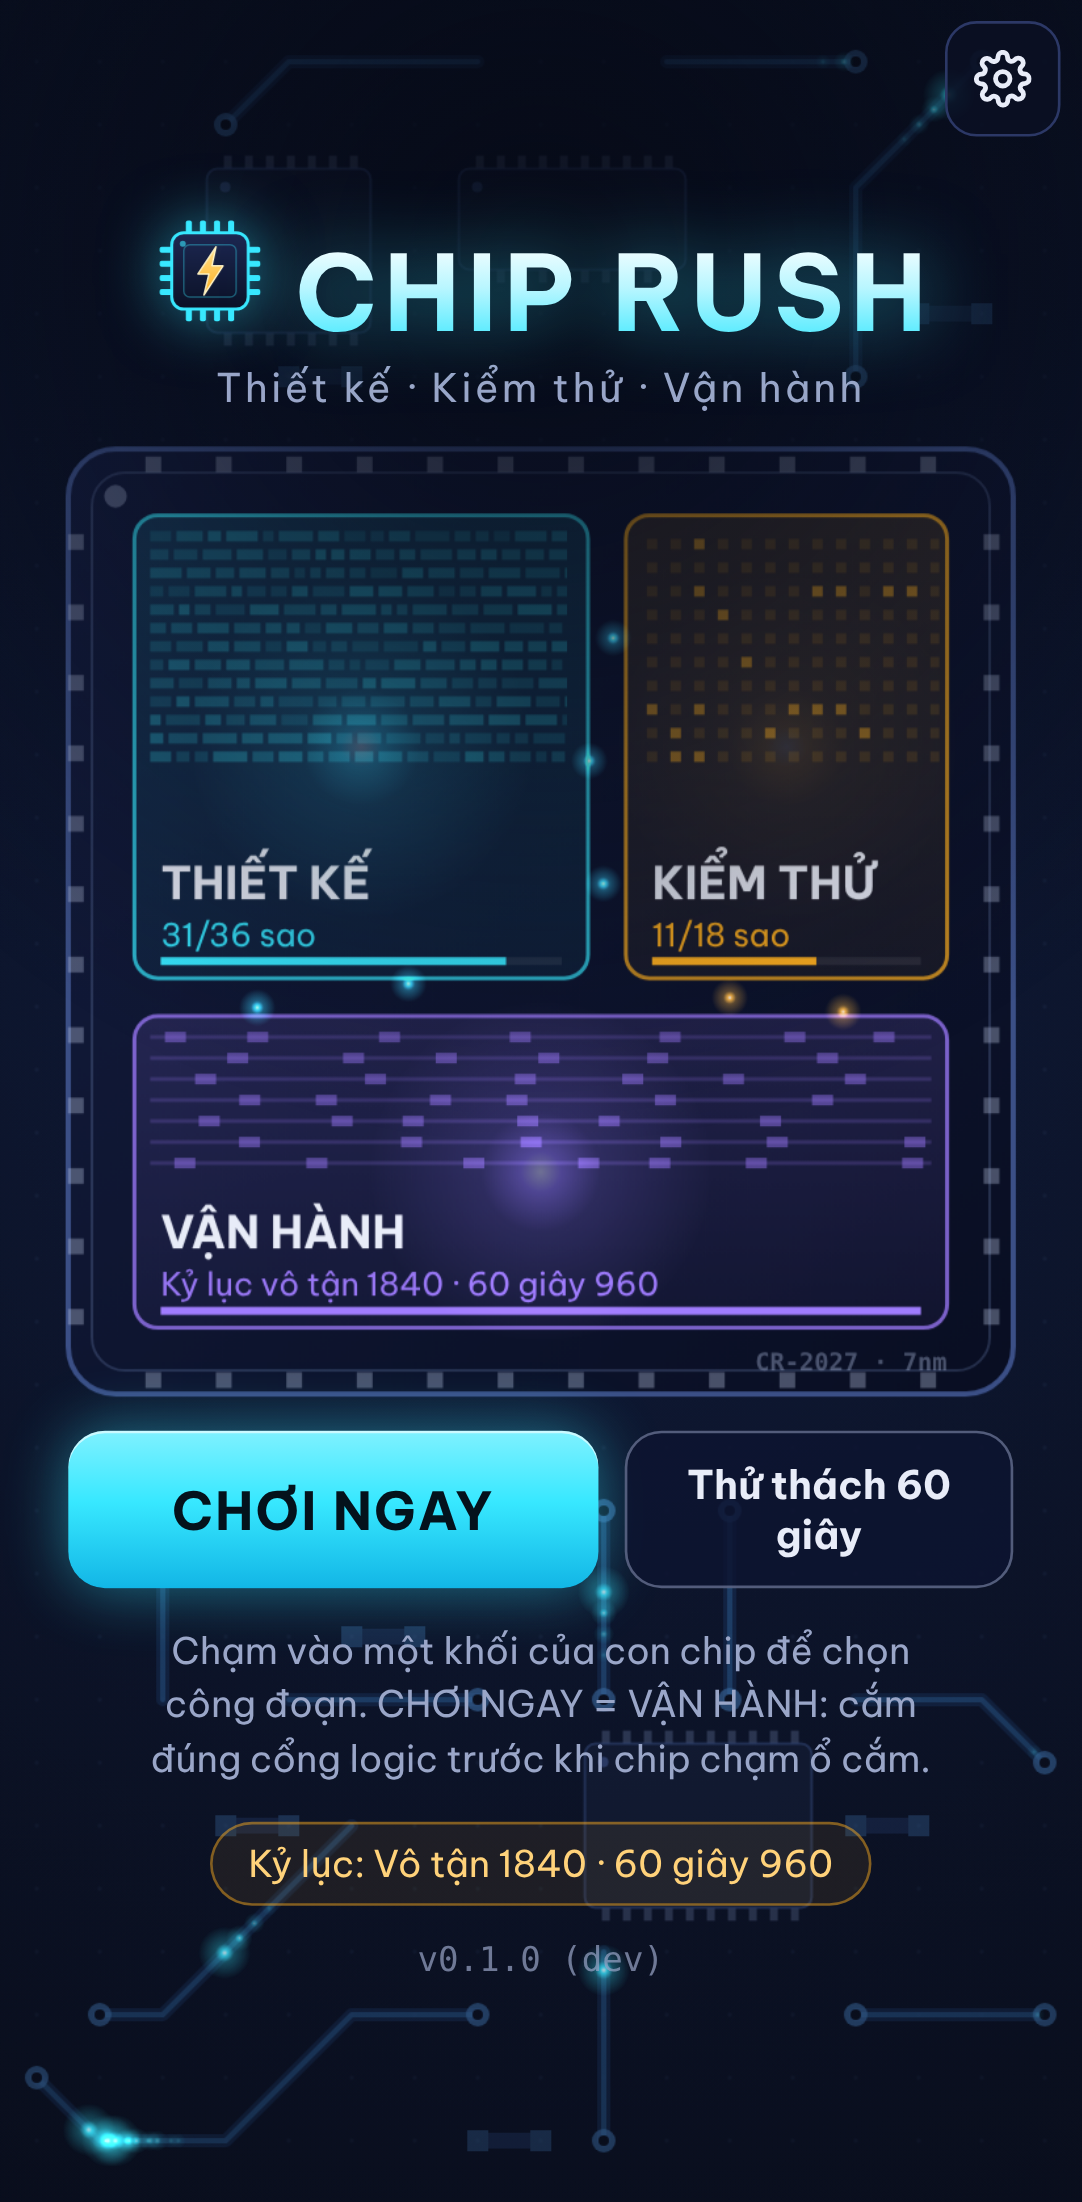
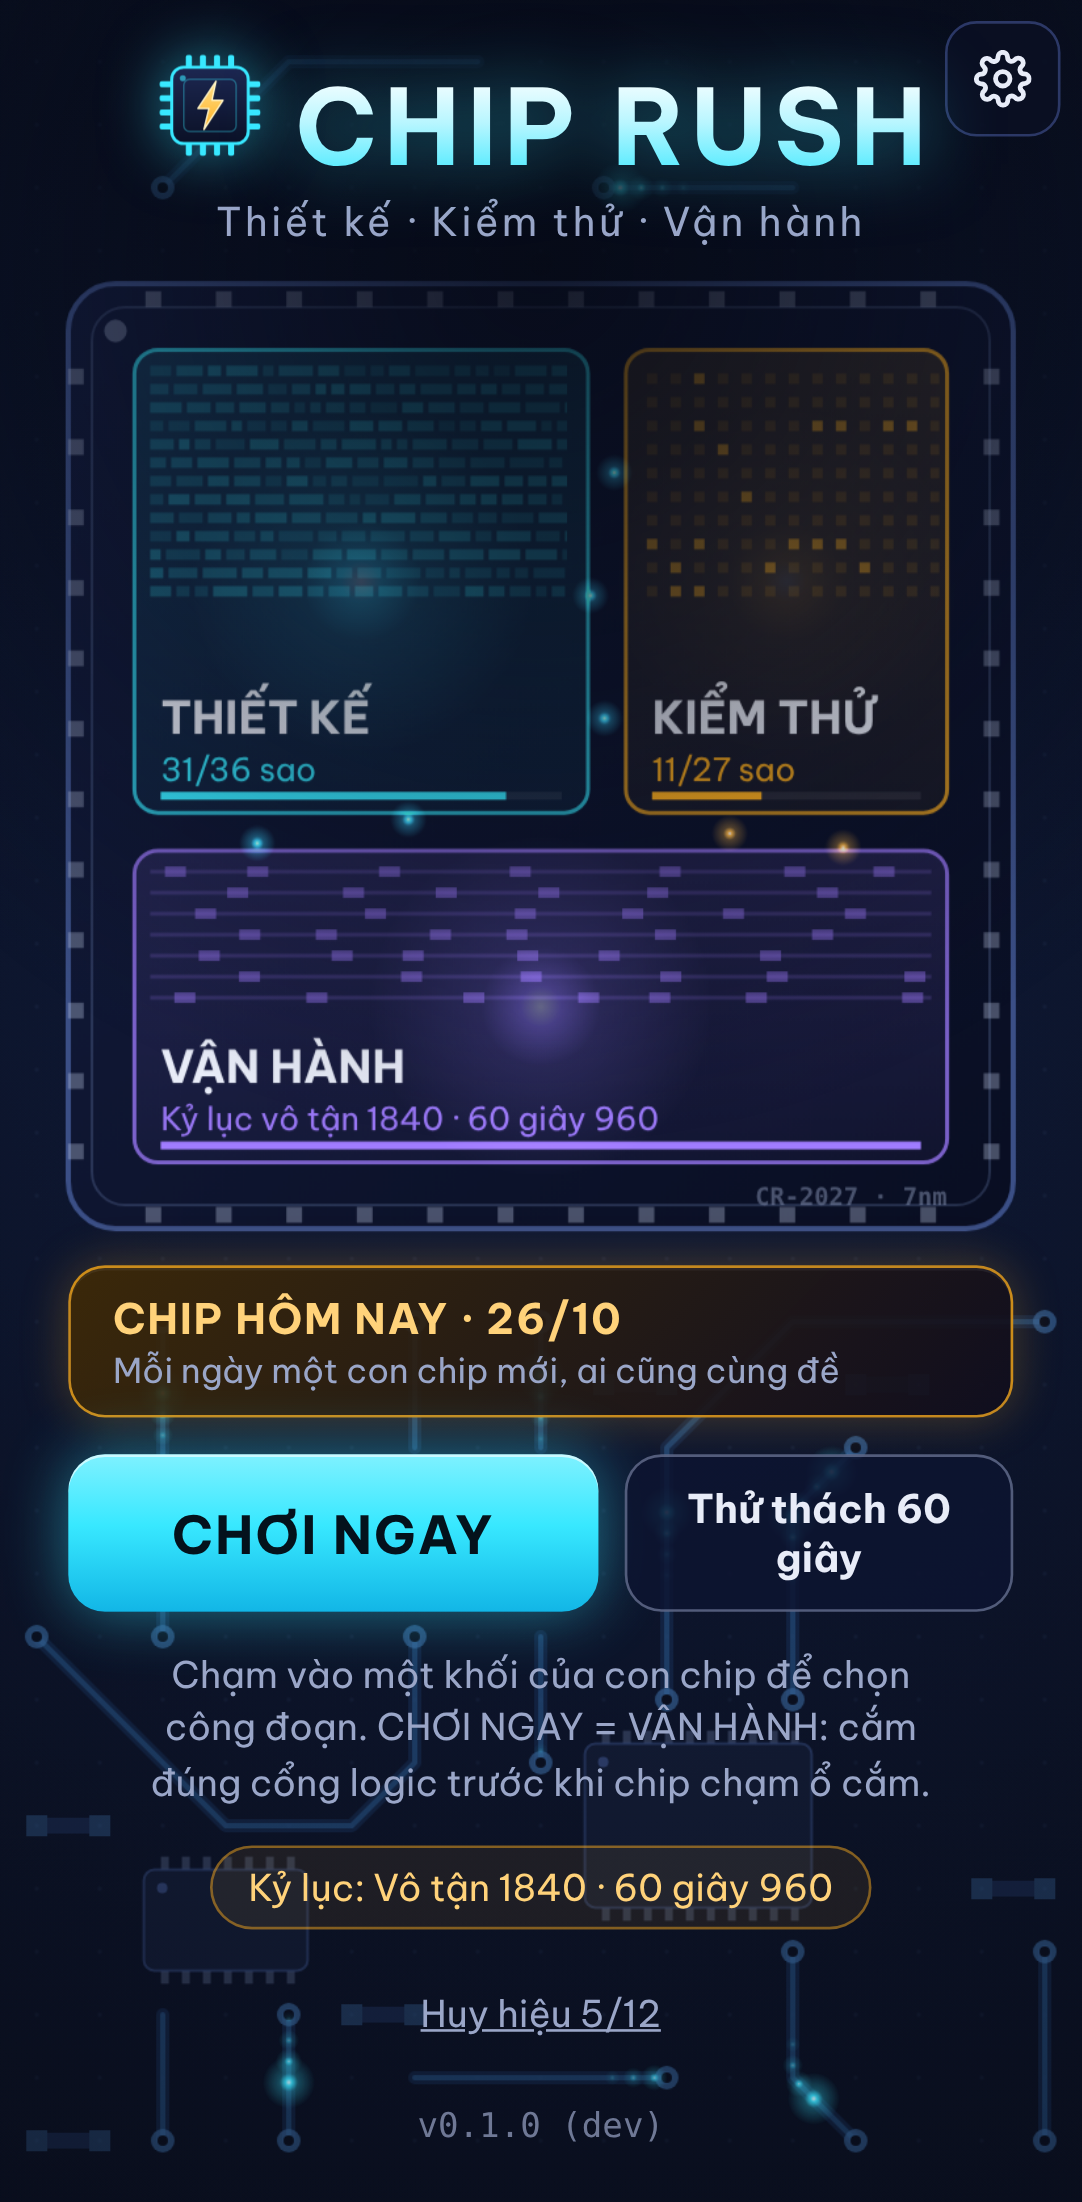
Ngày 18/10: đo hiệu năng máy ảo chậm, bậc đồ hoạ "min", làm mới ảnh nộp bài
- tools/perf-bench.mjs: Chromium + CPU chậm 1/4/6x qua DevTools Protocol, đo fps 4 màn
- Bậc chất lượng min: hạ DPR canvas xuống 1,25 khi đã tắt hiệu ứng mà vẫn giật
  (CPU chậm 4x: ~23 -> ~47 fps trên máy ảo); xét mỗi 30 frame, đo lại sau mỗi lần hạ
- Ảnh nộp bài chụp lại (Chip hôm nay 26/10, Huy hiệu, 9 màn KIỂM THỬ); ADR-0006, TESTING, COMPLIANCE
- 386 unit + 21 E2E xanh

Claude-Session: https://claude.ai/code/session_01SW3XEXh7B8UiDaXU6TGZZz

diff --git a/src/main.ts b/src/main.ts
@@ -2,7 +2,7 @@ import './ui/styles.css';
 import { versionLabel } from './config';
 import { createLoop } from './loop';
 import type { Scene } from './scene';
-import { createSurface } from './render/canvas';
+import { MIN_QUALITY_DPR, createSurface } from './render/canvas';
 import { createAudio } from './render/audio';
 import { attachPointer } from './input/pointer';
 import { createSafeStorage } from './platform/storage';
@@ -95,6 +95,7 @@ function boot(root: HTMLElement): void {
   let scene: Scene | null = null;
   let pendingInputTs = -1;
   let warmup = 0;
+  let qualityChangedAt = 0;
 
   const loop = createLoop({
     update: (dt) => scene?.update(dt),
@@ -109,12 +110,21 @@ function boot(root: HTMLElement): void {
         stats.addLatency(performance.now() - pendingInputTs);
         pendingInputTs = -1;
       }
-      // Tự tắt glow nếu máy không theo kịp (bỏ qua 2 giây đầu vì lúc tải hay giật).
-      if (++warmup > QUALITY_WINDOW && warmup % 60 === 0) {
-        surface.quality = decideQuality(surface.quality, stats.summary(QUALITY_WINDOW));
-        // Máy không theo kịp: ẩn luôn lớp nền bo mạch. Đo trên Chromium chạy đồ hoạ bằng CPU,
-        // ghép 2 lớp canvas toàn màn hình chiếm khoảng nửa thời gian mỗi frame (ADR-0006).
-        surface.backdrop.style.visibility = surface.quality === 'low' ? 'hidden' : '';
+      // Tự hạ đồ hoạ nếu máy không theo kịp. Bỏ qua lúc mới tải (hay giật), và sau mỗi lần hạ phải đo
+      // lại đủ QUALITY_WINDOW frame mới xét tiếp (số đo cũ là của mức chất lượng trước).
+      if (++warmup - qualityChangedAt > QUALITY_WINDOW && warmup % 30 === 0) {
+        const next = decideQuality(surface.quality, stats.summary(QUALITY_WINDOW));
+        if (next !== surface.quality) {
+          surface.quality = next;
+          qualityChangedAt = warmup;
+          // low: ẩn lớp nền bo mạch — trên máy vẽ bằng CPU, ghép 2 lớp toàn màn hình rất tốn (ADR-0006)
+          surface.backdrop.style.visibility = 'hidden';
+          // min: vẽ ở độ phân giải thấp hơn (số điểm ảnh giảm ~2,5 lần so với DPR 2)
+          if (next === 'min') {
+            surface.dprCap = MIN_QUALITY_DPR;
+            surface.resize();
+          }
+        }
       }
     },
   });
@@ -509,6 +519,8 @@ function boot(root: HTMLElement): void {
       },
       // vị trí 4 nút cổng (CSS px) để test bấm bằng chạm thật lên canvas
       buttons: () => layoutRuntime(surface.width, surface.height).buttons,
+      // đo hiệu năng tự động (tools/perf-bench.mjs): chất lượng đồ hoạ hiện tại + thống kê 120 frame gần nhất
+      perf: () => ({ quality: surface.quality, ...stats.summary(QUALITY_WINDOW) }),
       // màn THIẾT KẾ: id màn, toạ độ tâm ô, đầu vào hiện tại
       debug: () => {
         const ds = scene;
@@ -548,7 +560,7 @@ function boot(root: HTMLElement): void {
     createPerfOverlay(ui, stats, {
       version: versionLabel(),
       quality: () => surface.quality,
-      size: () => `${Math.round(surface.width)}×${Math.round(surface.height)} @${window.devicePixelRatio}x`,
+      size: () => `${Math.round(surface.width)}×${Math.round(surface.height)} @${Math.min(window.devicePixelRatio, surface.dprCap)}x`,
     });
   }
   if (import.meta.env.DEV && params.has('crash')) {

diff --git a/src/render/canvas.ts b/src/render/canvas.ts
@@ -17,7 +17,14 @@ export function computeCanvasSize(cssW: number, cssH: number, dpr: number, maxDp
   return { width: Math.max(1, Math.round(cssW * scale)), height: Math.max(1, Math.round(cssH * scale)), scale };
 }
 
-export type Quality = 'high' | 'low';
+/**
+ * 'high' = đủ hiệu ứng; 'low' = tắt glow/hạt + ẩn nền bo mạch; 'min' = như low + vẽ ở độ phân giải thấp hơn
+ * (đo 18/10: thời gian frame tỉ lệ gần thuận với số điểm ảnh khi máy vẽ bằng CPU).
+ */
+export type Quality = 'high' | 'low' | 'min';
+
+/** DPR tối đa khi chất lượng 'min'. */
+export const MIN_QUALITY_DPR = 1.25;
 
 export interface RenderSurface {
   readonly canvas: HTMLCanvasElement;
@@ -25,8 +32,10 @@ export interface RenderSurface {
   /** kích thước vùng vẽ theo CSS px */
   width: number;
   height: number;
-  /** 'low' = tắt glow/hạt để giữ khung hình trên máy yếu */
+  /** 'low'/'min' = tắt glow/hạt để giữ khung hình trên máy yếu (xem Quality) */
   quality: Quality;
+  /** DPR tối đa của canvas chính (hạ xuống khi quality = 'min'; đổi xong gọi resize()) */
+  dprCap: number;
   /** true khi người chơi bật giảm chuyển động */
   reducedMotion: boolean;
   /**
@@ -62,10 +71,11 @@ export function createSurface(host: HTMLElement): RenderSurface & { resize(): vo
     width: 0,
     height: 0,
     quality: 'high' as Quality,
+    dprCap: MAX_DPR,
     reducedMotion: window.matchMedia?.('(prefers-reduced-motion: reduce)').matches ?? false,
     resize() {
       const rect = canvas.getBoundingClientRect();
-      const s = computeCanvasSize(rect.width, rect.height, window.devicePixelRatio);
+      const s = computeCanvasSize(rect.width, rect.height, window.devicePixelRatio, surface.dprCap);
       if (canvas.width !== s.width || canvas.height !== s.height) {
         canvas.width = s.width;
         canvas.height = s.height;

diff --git a/src/debug/stats.ts b/src/debug/stats.ts
@@ -64,10 +64,10 @@ export const LOW_QUALITY_P95_MS = 33.4;
 export const QUALITY_WINDOW = 120;
 
 /**
- * Chỉ HẠ chất lượng, không tự nâng lại: tránh bật/tắt glow liên tục (nhấp nháy, khó chịu hơn giật).
+ * Hạ chất lượng từng bậc high → low → min khi p95 vẫn quá ngưỡng (mỗi bậc cần đủ QUALITY_WINDOW frame
+ * đo SAU lần hạ trước — main.ts đảm bảo). Chỉ hạ, không tự nâng lại: tránh bật/tắt liên tục (nhấp nháy).
  */
 export function decideQuality(current: Quality, recent: StatsSummary): Quality {
-  if (current === 'low') return 'low';
-  if (recent.frames < QUALITY_WINDOW) return current;
-  return recent.p95Ms > LOW_QUALITY_P95_MS ? 'low' : 'high';
+  if (current === 'min' || recent.frames < QUALITY_WINDOW || recent.p95Ms <= LOW_QUALITY_P95_MS) return current;
+  return current === 'high' ? 'low' : 'min';
 }

diff --git a/tests/runtime.test.ts b/tests/runtime.test.ts
@@ -231,6 +231,13 @@ describe('thống kê hiệu năng', () => {
     expect(decideQuality('high', mk(QUALITY_WINDOW, 20))).toBe('high');
     expect(decideQuality('low', mk(QUALITY_WINDOW, 8))).toBe('low');
   });
+
+  it('hạ từng bậc high → low → min (vẽ độ phân giải thấp); min là đáy', () => {
+    const mk = (p95: number) => ({ frames: QUALITY_WINDOW, medianMs: 40, p95Ms: p95, fps: 25, latencySamples: 0, latencyP95Ms: null });
+    expect(decideQuality('low', mk(LOW_QUALITY_P95_MS + 1))).toBe('min');
+    expect(decideQuality('min', mk(200))).toBe('min');
+    expect(decideQuality('min', mk(10))).toBe('min'); // không tự nâng lại
+  });
 });
 
 describe('SandboxScene', () => {

diff --git a/src/render/pcb.ts b/src/render/pcb.ts
@@ -151,7 +151,7 @@ export class PcbBackdrop {
   update(dt: number, s: RenderSurface): void {
     if (!this.layout) return;
     // chất lượng thấp: lớp nền bị ẩn (xem main.ts) nên cũng không chạy xung
-    const target = s.reducedMotion || s.quality === 'low' ? 0 : this.opts.pulses;
+    const target = s.reducedMotion || s.quality !== 'high' ? 0 : this.opts.pulses;
     let ambient = this.pulses.filter((p) => !p.oneShot).length;
     while (ambient < target) {
       this.spawn(false);

diff --git a/docs/adr/0006-do-hoa-bo-mach-neon.md b/docs/adr/0006-do-hoa-bo-mach-neon.md
@@ -34,3 +34,24 @@ Chromium headless giả lập Pixel 7, **vẽ bằng CPU** (không GPU), làm ch
 Thí nghiệm ẩn từng lớp cho thấy phần đắt là **ghép 2 lớp toàn màn hình bằng CPU**, không phải lệnh vẽ của game.
 Điện thoại thật ghép lớp bằng GPU nên chi phí này thường rất nhỏ, nhưng chưa được kiểm chứng: Vũ đo trên Redmi Note 8 với `?debug=1`.
 Nếu máy không theo kịp, cơ chế tự hạ chất lượng (mục 6) đưa game về mức tải gần như bản cũ.
+
+## Bổ sung 18/10: bậc chất lượng thứ ba "min" (giảm độ phân giải)
+Đo bằng `tools/perf-bench.mjs` (Chromium giả lập Pixel 7, làm chậm CPU qua DevTools Protocol). Profiler cho thấy JS của game chỉ chiếm ~5% thời gian; còn lại là trình duyệt vẽ/ghép điểm ảnh bằng CPU. Thử đổi DPR ở VẬN HÀNH, CPU chậm 4 lần:
+
+| DPR canvas | Frame trung vị / p95 | Số frame trong 4 s |
+| --- | --- | --- |
+| 2 (tối đa hiện tại) | 49,9 / 66,7 ms | 94 |
+| 1,5 | 16,8 / 50,0 ms | 145 |
+| 1 | 16,7 / 33,3 ms | 223 |
+
+→ Thêm bậc `min`: nếu đã ở `low` mà p95 vẫn > 33,4 ms thì vẽ canvas chính ở DPR tối đa 1,25 (chữ hơi mềm hơn nhưng vẫn đọc tốt). Mỗi bậc chỉ xét sau khi đo đủ 120 frame ở bậc hiện tại; chỉ hạ, không tự nâng (tránh nhấp nháy).
+
+Kết quả sau khi game tự hạ đồ hoạ (đo sau 14 s):
+
+| CPU chậm | Màn chính | VẬN HÀNH | THIẾT KẾ d12 | KIỂM THỬ t09 |
+| --- | --- | --- | --- | --- |
+| 4× (trước) | 19 fps | 25 fps | 24 fps | 22 fps |
+| 4× (sau) | 35 fps | 47 fps | 50 fps | 47 fps |
+| 6× (sau) | 14 fps | 21 fps | 15 fps | 19 fps |
+
+Vẫn cần số đo máy thật: điện thoại vẽ canvas bằng GPU nên con số thật thường tốt hơn nhiều so với máy ảo vẽ bằng CPU.

diff --git a/docs/DEVLOG.md b/docs/DEVLOG.md
@@ -2,6 +2,18 @@
 
 Mỗi buổi một mục, mới nhất ở trên. Ghi: đã làm, quyết định, vướng mắc, việc tiếp theo.
 
+## 2026-10-18 – Đo hiệu năng trên máy ảo chậm + bậc đồ hoạ "min" + làm mới ảnh nộp bài
+**Đã làm**
+- `tools/perf-bench.mjs`: Chromium giả lập Pixel 7, làm chậm CPU 1/4/6 lần, đo khoảng cách frame ở 4 màn (màn chính, VẬN HÀNH đang chơi, THIẾT KẾ d12, KIỂM THỬ t09). Móc test `__CHIPRUSH__.perf()` đọc chất lượng hiện tại.
+- Profiler: JS của game chỉ ~5% thời gian frame; phần lớn là trình duyệt vẽ điểm ảnh bằng CPU. Đổi DPR 2 → 1 tăng từ 23 lên 55 fps (CPU chậm 4×).
+- Thêm bậc chất lượng `min` (high → low → min): hạ DPR canvas chính xuống 1,25 khi đã tắt hiệu ứng mà vẫn giật. Bộ điều chất lượng xét mỗi 30 frame (trước: 60) và đo lại đủ 120 frame sau mỗi lần hạ.
+- Kết quả (CPU chậm 4×, sau khi tự hạ): 19–25 fps → 35–50 fps. CPU chậm 6× vẫn 14–21 fps → ghi rõ cần số đo máy thật (ADR-0006, TESTING).
+- Chạy lại `tools/submission-assets.mjs`: ảnh màn chính mới (Chip hôm nay ngày 26/10, Huy hiệu), KIỂM THỬ 27 sao; mô tả nộp bài thêm huy hiệu; COMPLIANCE cập nhật.
+- 1 unit mới (bậc min). Tổng 386 unit, 21 E2E.
+
+**Quyết định**
+- Không hạ DPR ngay từ đầu cho mọi máy: máy khoẻ vẫn nét ở DPR 2; chỉ máy đo được là chậm mới hạ.
+
 ## 2026-10-17 – Huy hiệu (thành tựu) xuyên 3 chế độ
 **Đã làm**
 - `src/core/badges.ts`: 12 huy hiệu, mỗi cái một hàm điều kiện thuần trên dữ liệu lưu.

diff --git a/docs/COMPLIANCE.md b/docs/COMPLIANCE.md
@@ -1,11 +1,11 @@
 # Đối chiếu điều lệ – Phần thi Công nghệ, Road to Predator League 2027
 
-Cập nhật lần cuối: 06/10/2026. Kiểm tra lại toàn bộ trước khi nộp (25/10).
+Cập nhật lần cuối: 18/10/2026. Kiểm tra lại toàn bộ trước khi nộp (25/10).
 
 | Điều | Yêu cầu | Cách CHIP RUSH đáp ứng | Trạng thái |
 | --- | --- | --- | --- |
 | B.I | Sinh viên có tài khoản chiến dịch; nhóm cùng một trường | Thành viên đều là sinh viên HCMUT | Chờ xác nhận HCMUT là trường đối tác |
-| B.III | Game chơi trên web qua Portal; nộp link GitHub, tên, mô tả, logo, ảnh in-game, tác giả, MSSV, trường | File tĩnh chạy mọi trình duyệt hiện đại; nội dung nộp chuẩn bị ở `SUBMISSION.md` | Đang làm |
+| B.III | Game chơi trên web qua Portal; nộp link GitHub, tên, mô tả, logo, ảnh in-game, tác giả, MSSV, trường | File tĩnh chạy mọi trình duyệt hiện đại; nội dung nộp ở `SUBMISSION.md`, ảnh logo + in-game ở `docs/submission/` (làm mới 18/10) | Còn thiếu MSSV |
 | IV.1 | Không dùng tác phẩm có bản quyền chưa được phép | Hình vẽ bằng code, âm thanh tổng hợp, font OFL; mọi tài nguyên ghi ở `ASSETS.md` | Đạt |
 | IV.2 | Không dùng AI tạo sản phẩm phái sinh từ nội dung có bản quyền | Không dùng ảnh/âm thanh do AI tạo; AI chỉ hỗ trợ code và tài liệu, ghi ở `ai-log/` | Đạt |
 | IV.3 | Không bạo lực, máu me, chính trị, tôn giáo, thù địch, trái thuần phong mỹ tục | Chủ đề mạch điện tử; không bản đồ, cờ, cơ chế cờ bạc | Đạt |

diff --git a/docs/SUBMISSION.md b/docs/SUBMISSION.md
@@ -26,7 +26,7 @@
 
 Ở mỗi chế độ bạn so tài với **"AI kỹ sư"** — AI cổ điển chạy ngay trong game, không gọi API: tìm kiếm nhánh-cận (branch-and-bound) kèm cận dưới và đi dây PathFinder để tìm mạch rẻ nhất (chứng minh được tối ưu ở 7/12 màn); cây quyết định minimax để biết số lần đo ít nhất trong trường hợp xấu nhất (tối ưu ở cả 9 màn); Thompson sampling để chế độ VẬN HÀNH ra nhiều gói ở loại cổng bạn hay sai. Bạn ngang AI thì được 1000 điểm, vượt AI ở màn chưa được chứng minh tối ưu là có thật. AI được giải thích ngay trong game: trang "AI kỹ sư hoạt động thế nào?" nói rõ thuật toán và giới hạn, nút "Xem AI kỹ sư đo" phát lại từng bước suy luận, và chế độ VẬN HÀNH báo khi AI bắt đầu nhắm vào điểm yếu của bạn.
 
-Mỗi ngày còn có **Chip hôm nay**: một đề thiết kế mới giống nhau cho mọi người, giữ chuỗi ngày và so điểm với bạn bè.
+Mỗi ngày còn có **Chip hôm nay**: một đề thiết kế mới giống nhau cho mọi người, giữ chuỗi ngày và so điểm với bạn bè; cùng 12 huy hiệu như "Hơn cả AI" để có lý do quay lại.
 
 Màn đầu của THIẾT KẾ và KIỂM THỬ có hướng dẫn tận tay (không trừ sao); nút Gợi ý luôn sẵn khi bí. Toàn bộ hình ảnh vẽ bằng code, âm thanh tổng hợp trong trình duyệt, không thu thập dữ liệu cá nhân. Quá trình dùng AI để phát triển được ghi lại công khai trong repo (`docs/ai-log/`).
 

diff --git a/docs/ai-log/2026-10-18.md b/docs/ai-log/2026-10-18.md
@@ -1,0 +1,7 @@
+# 2026-10-18
+
+**Công cụ:** Claude (Anthropic), chế độ Cowork.
+
+| # | Yêu cầu của Vũ (tóm tắt) | AI tạo ra | Kiểm tra |
+| --- | --- | --- | --- |
+| 1 | "2 ngày tiếp theo luôn đi" (ngày 1/2): hiệu năng + tài nguyên nộp bài | `tools/perf-bench.mjs`, bậc chất lượng `min` (`canvas.ts`, `stats.ts`, `main.ts`, `pcb.ts`), test bậc chất lượng, ảnh nộp bài làm mới, ADR-0006 bổ sung, TESTING/COMPLIANCE/SUBMISSION | Đo trước/sau trên Chromium làm chậm CPU (bảng trong ADR-0006); profiler để tìm phần tốn thời gian trước khi sửa; toàn bộ test xanh; AI xem lại ảnh nộp bài mới; _(Vũ vẫn cần đo trên 3 điện thoại thật)_ |

diff --git a/CHANGELOG.md b/CHANGELOG.md
@@ -4,6 +4,7 @@
 
 ## [Chưa phát hành]
 ### Thêm
+- Bậc đồ hoạ "min": máy chậm tự vẽ ở độ phân giải thấp hơn (CPU chậm 4×: ~23 → ~47 fps trên máy ảo); công cụ `tools/perf-bench.mjs`.
 - 12 huy hiệu xuyên 3 chế độ + bảng Huy hiệu ở màn chính; trao bù cho người chơi cũ.
 - 3 màn KIỂM THỬ mới: t07 Ngã ba, t08 Hai đèn chỉ đường, t09 Bỏ phiếu (5 khả năng, par 3); công cụ `tools/explore-faults.ts` chọn lỗi cho màn.
 - Chơi bằng bàn phím (mũi tên, Shift + mũi tên kéo dây, Space/Enter); bố cục rộng cho máy tính/tablet (bảng chân trị bên trái lưới); nhắc xoay dọc khi điện thoại xoay ngang.
